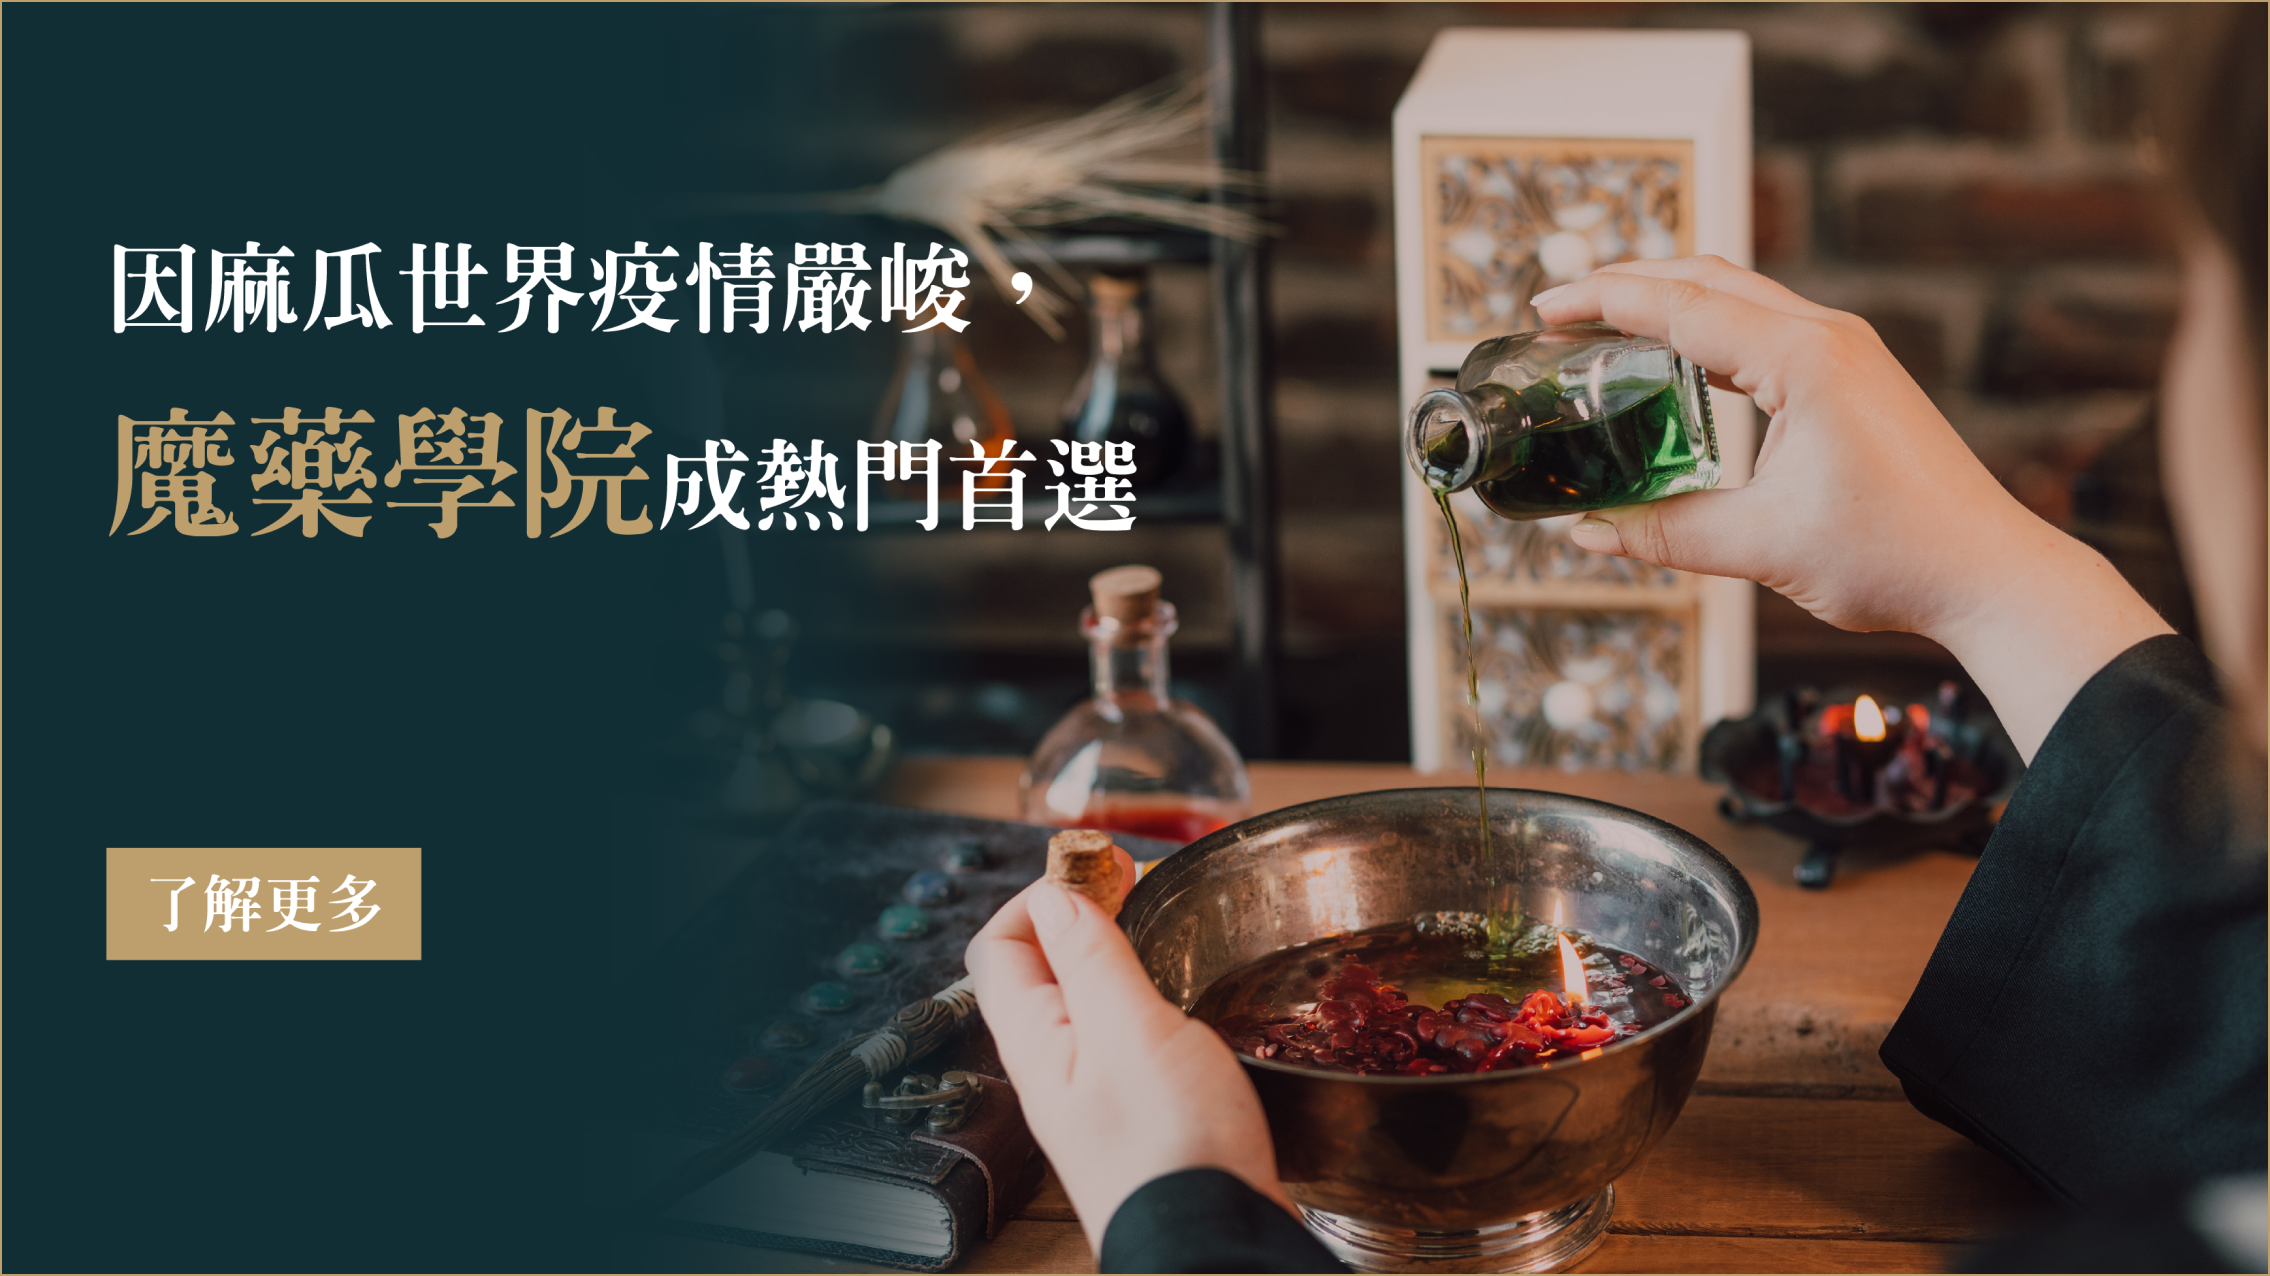
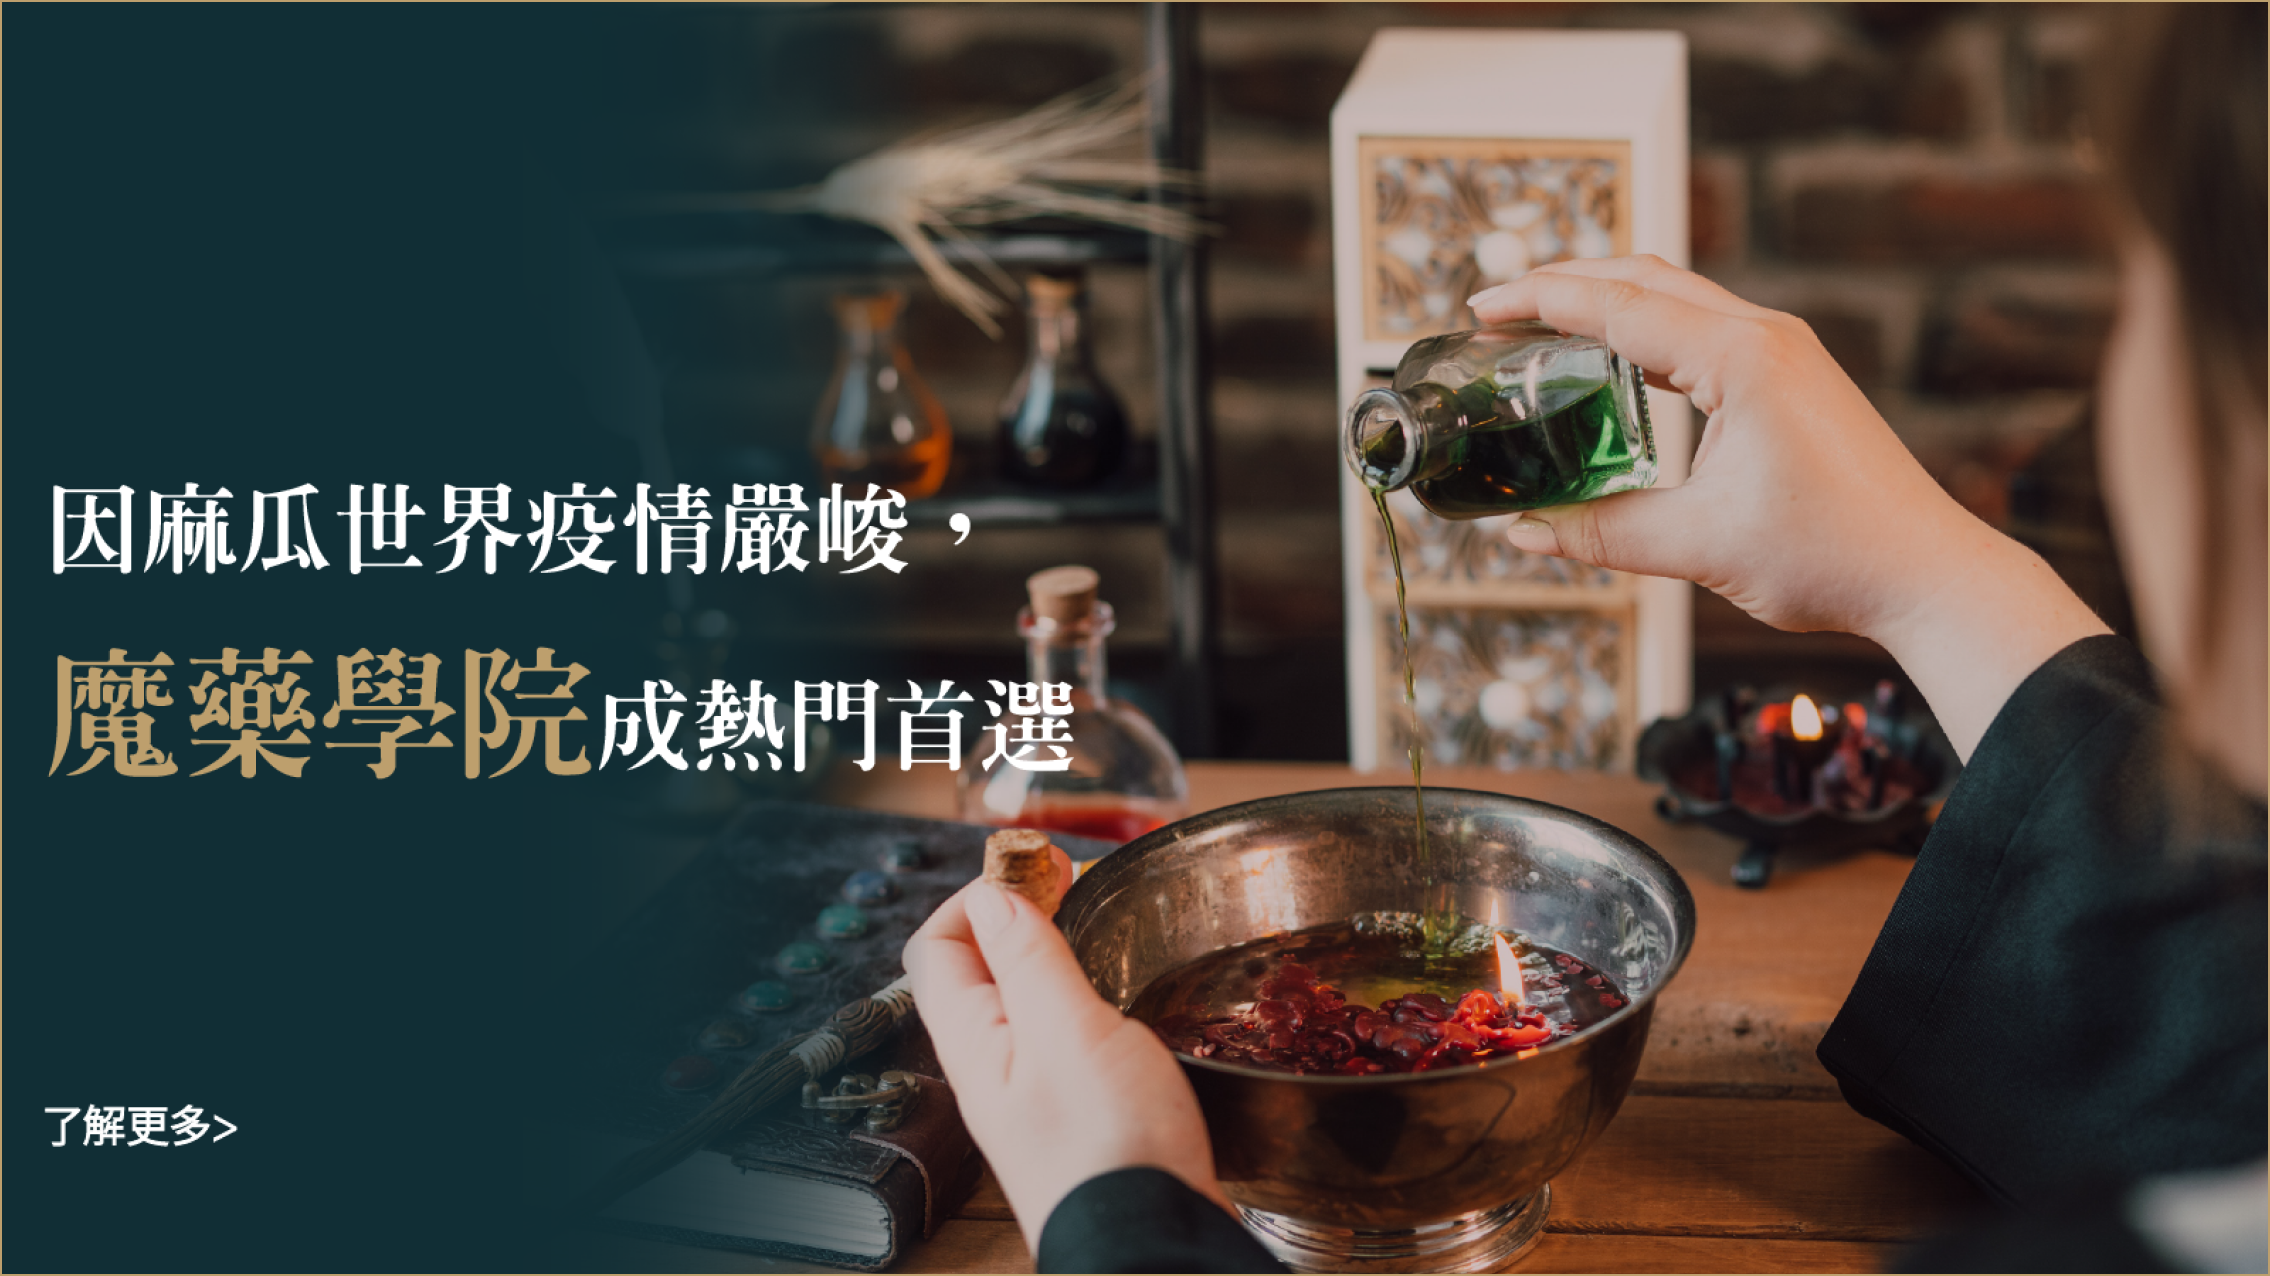
優化載入

diff --git a/department.html b/department.html
@@ -71,7 +71,7 @@
                             <img src="img/department/red.png" alt="">
                         </div>
                         <div class="red1_back">
-                            <img src="img/department/redback.png" alt="">
+                            <img src="img/department/redback1.png" alt="">
                             <img class="gif1" src="img/department/goldlion2.gif" alt="">
                             <div class="card_text">
                                 <h2>守護獸 : 雄獅</h2>
@@ -85,7 +85,7 @@
                             <img src="img/department/green.png" alt="">
                         </div>
                         <div class="green2_back">
-                            <img src="img/department/greenback.png" alt="">
+                            <img src="img/department/greenback1.png" alt="">
                             <img class="gif1" src="img/department/goldfly.gif" alt="">
                             <div class="card_text">
                                 <h2>守護獸 : 彩蝶</h2>
@@ -99,7 +99,7 @@
                             <img src="img/department/blue.png" alt="">
                         </div>
                         <div class="blue3_back">
-                            <img src="img/department/blueback.png" alt="">
+                            <img src="img/department/blueback1.png" alt="">
                             <img class="gif1" src="img/department/golddeer.gif" alt="">
                             <div class="card_text">
                                 <h2>守護獸 : 靈鹿</h2>
@@ -113,7 +113,7 @@
                             <img src="img/department/yellow.png" alt="">
                         </div>
                         <div class="yellow4_back">
-                            <img src="img/department/yellowback.png" alt="">
+                            <img src="img/department/yellowback1.png" alt="">
                             <img class="gif1" src="img/department/goldbird.gif" alt="">
                             <div class="card_text">
                                 <h2>守護獸 : 鳳凰</h2>

diff --git a/css/index.css b/css/index.css
@@ -129,21 +129,21 @@ body{
 }
 
 .banner1{
-    background-image: url(../img/mainpage/banner1.png);
+    background-image: url(../img/mainpage/banner1-1.png);
     background-size: cover;
     width: 100%;
     height: 100%;
 }
 
 .banner2{
-    background-image: url(../img/mainpage/banner4.png);
+    background-image: url(../img/mainpage/banner2-1.png);
     background-size: cover;
     width: 100%;
     height: 100%;
 }
 
 .banner3{
-    background-image: url(../img/mainpage/banner3.png);
+    background-image: url(../img/mainpage/banner3-1.png);
     background-size: cover;
     width: 100%;
     height: 100%;
@@ -312,39 +312,42 @@ body{
     display: grid;
     grid-template-columns: repeat(10,1fr);
     grid-template-rows: repeat(5,1fr);
+    column-gap: 10px;
+    row-gap: 10px;
     margin-bottom: 30px;
+    box-sizing: border-box;
 }
 
 .life1{
-    width: 445px;
-    height: 662px;
+    width: 100%;
+    height: 100%;
     grid-column: 1/5;
     grid-row: 1/6;
-    outline: 0.3px solid #BD9F6D;
+    border: 0.3px solid #BD9F6D;
 }
 
 .life2{
-    width: 330px;
-    height: 258px;
+    width: 100%;
+    height: 100%;
     grid-column: 5/8;
     grid-row: 1/3;
-    outline: 0.3px solid #BD9F6D;
+    border: 0.3px solid #BD9F6D;
 }
 
 .life3{
-    width: 330px;
-    height: 258px;
+    width: 100%;
+    height: 100%;
     grid-column: 8/11;
     grid-row: 1/3;
-    outline: 0.3px solid #BD9F6D;
+    border: 0.3px solid #BD9F6D;
 }
 
 .life4{
-    width: 670px;
-    height: 389px;
+    width: 100%;
+    height: 100%;
     grid-column: 5/11;
     grid-row: 3/6;
-    outline: 0.3px solid #BD9F6D;
+    border: 0.3px solid #BD9F6D;
 }
 
 /* 口口口口口口口口口口第四區塊footer口口口口口口口口口口*/

diff --git a/index.html b/index.html
@@ -100,10 +100,10 @@
         <main class="main_2">
             <h1>校園生活</h1>
             <div class="life">
-                <img class="life1" src="img/mainpage/life1.png" alt="">
-                <img class="life2" src="img/mainpage/life2.png" alt="">
-                <img class="life3" src="img/mainpage/life3.png" alt="">
-                <img class="life4" src="img/mainpage/life4.png" alt="">
+                <img data-aos="fade-up" data-aos-duration="2000" data-aos-offset="200" class="life1" src="img/mainpage/life1.png" alt="">
+                <img data-aos="fade-up" data-aos-duration="3000" data-aos-offset="300"class="life2" src="img/mainpage/life2.png" alt="">
+                <img data-aos="fade-up" data-aos-duration="2500" data-aos-offset="200"class="life3" src="img/mainpage/life3.png" alt="">
+                <img data-aos="fade-up" data-aos-duration="3000" class="life4" src="img/mainpage/life4.png" alt="">
             </div>
         </main>
 

diff --git a/shop.html b/shop.html
@@ -153,7 +153,7 @@
                                 <img src="img/shop/poison3.png" alt="">
                                 <div class="product_note">
                                     <h3>動物幻化藥劑</h3>
-                                    <span>1200</span>
+                                    <span>999</span>
                                 </div>
                             </a>
                         </li>
@@ -187,7 +187,7 @@
                                 <img src="img/shop/ruby3.png" alt="">
                                 <div class="product_note">
                                     <h3>巫師棋100周年限定款</h3>
-                                    <span>2000</span>
+                                    <span>799</span>
                                 </div>
                             </a>
                         </li>
